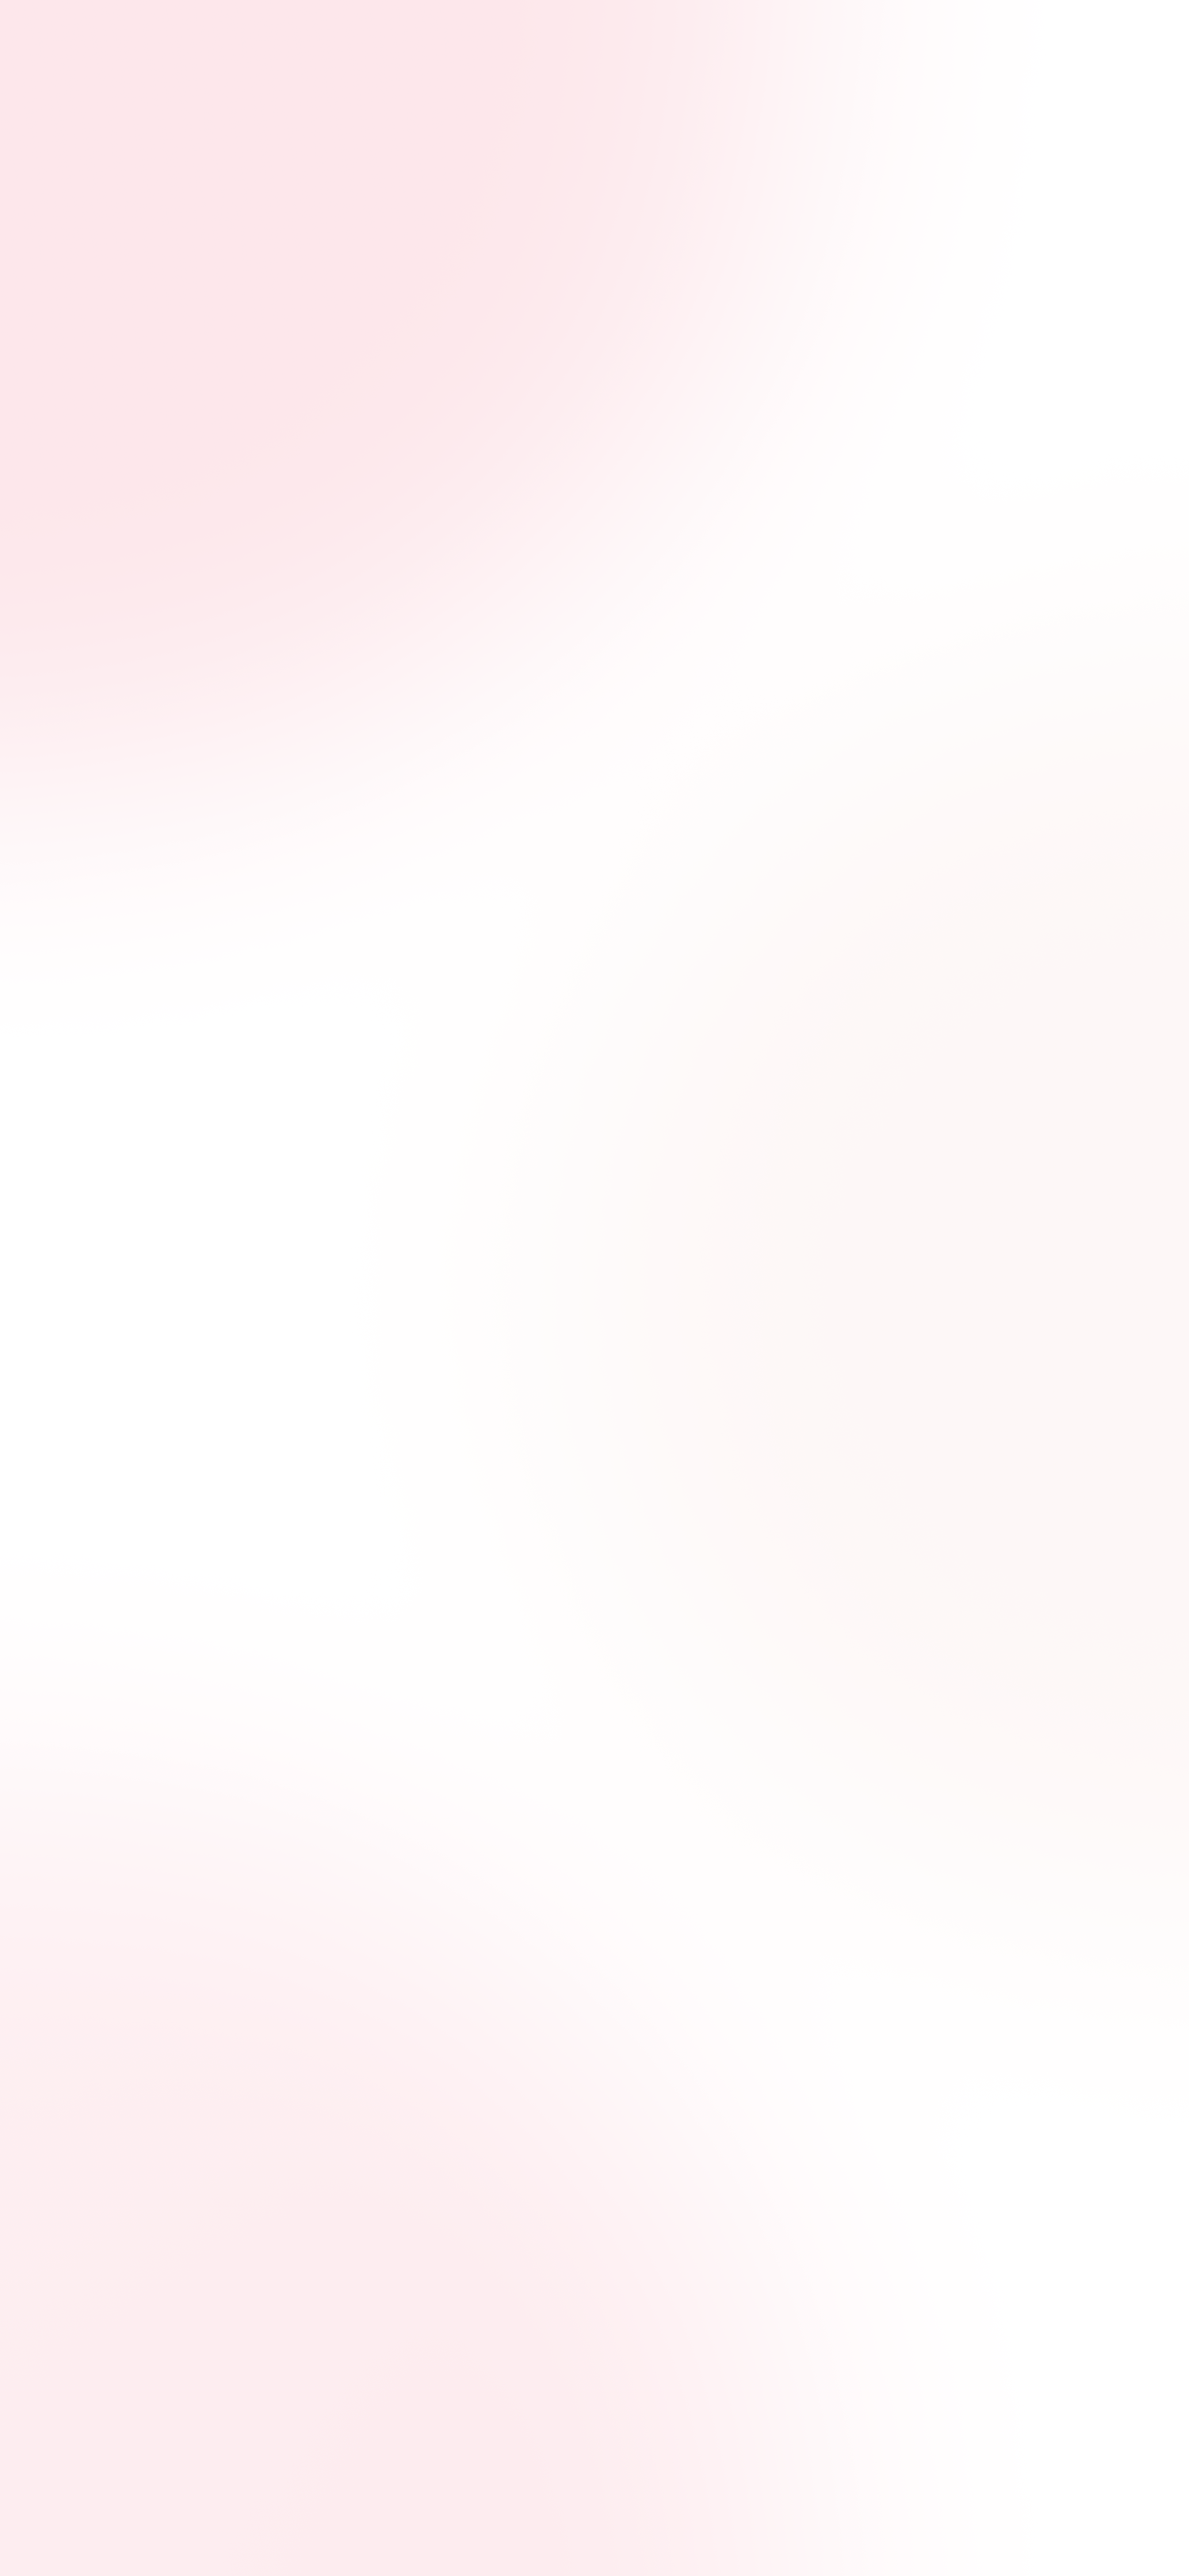
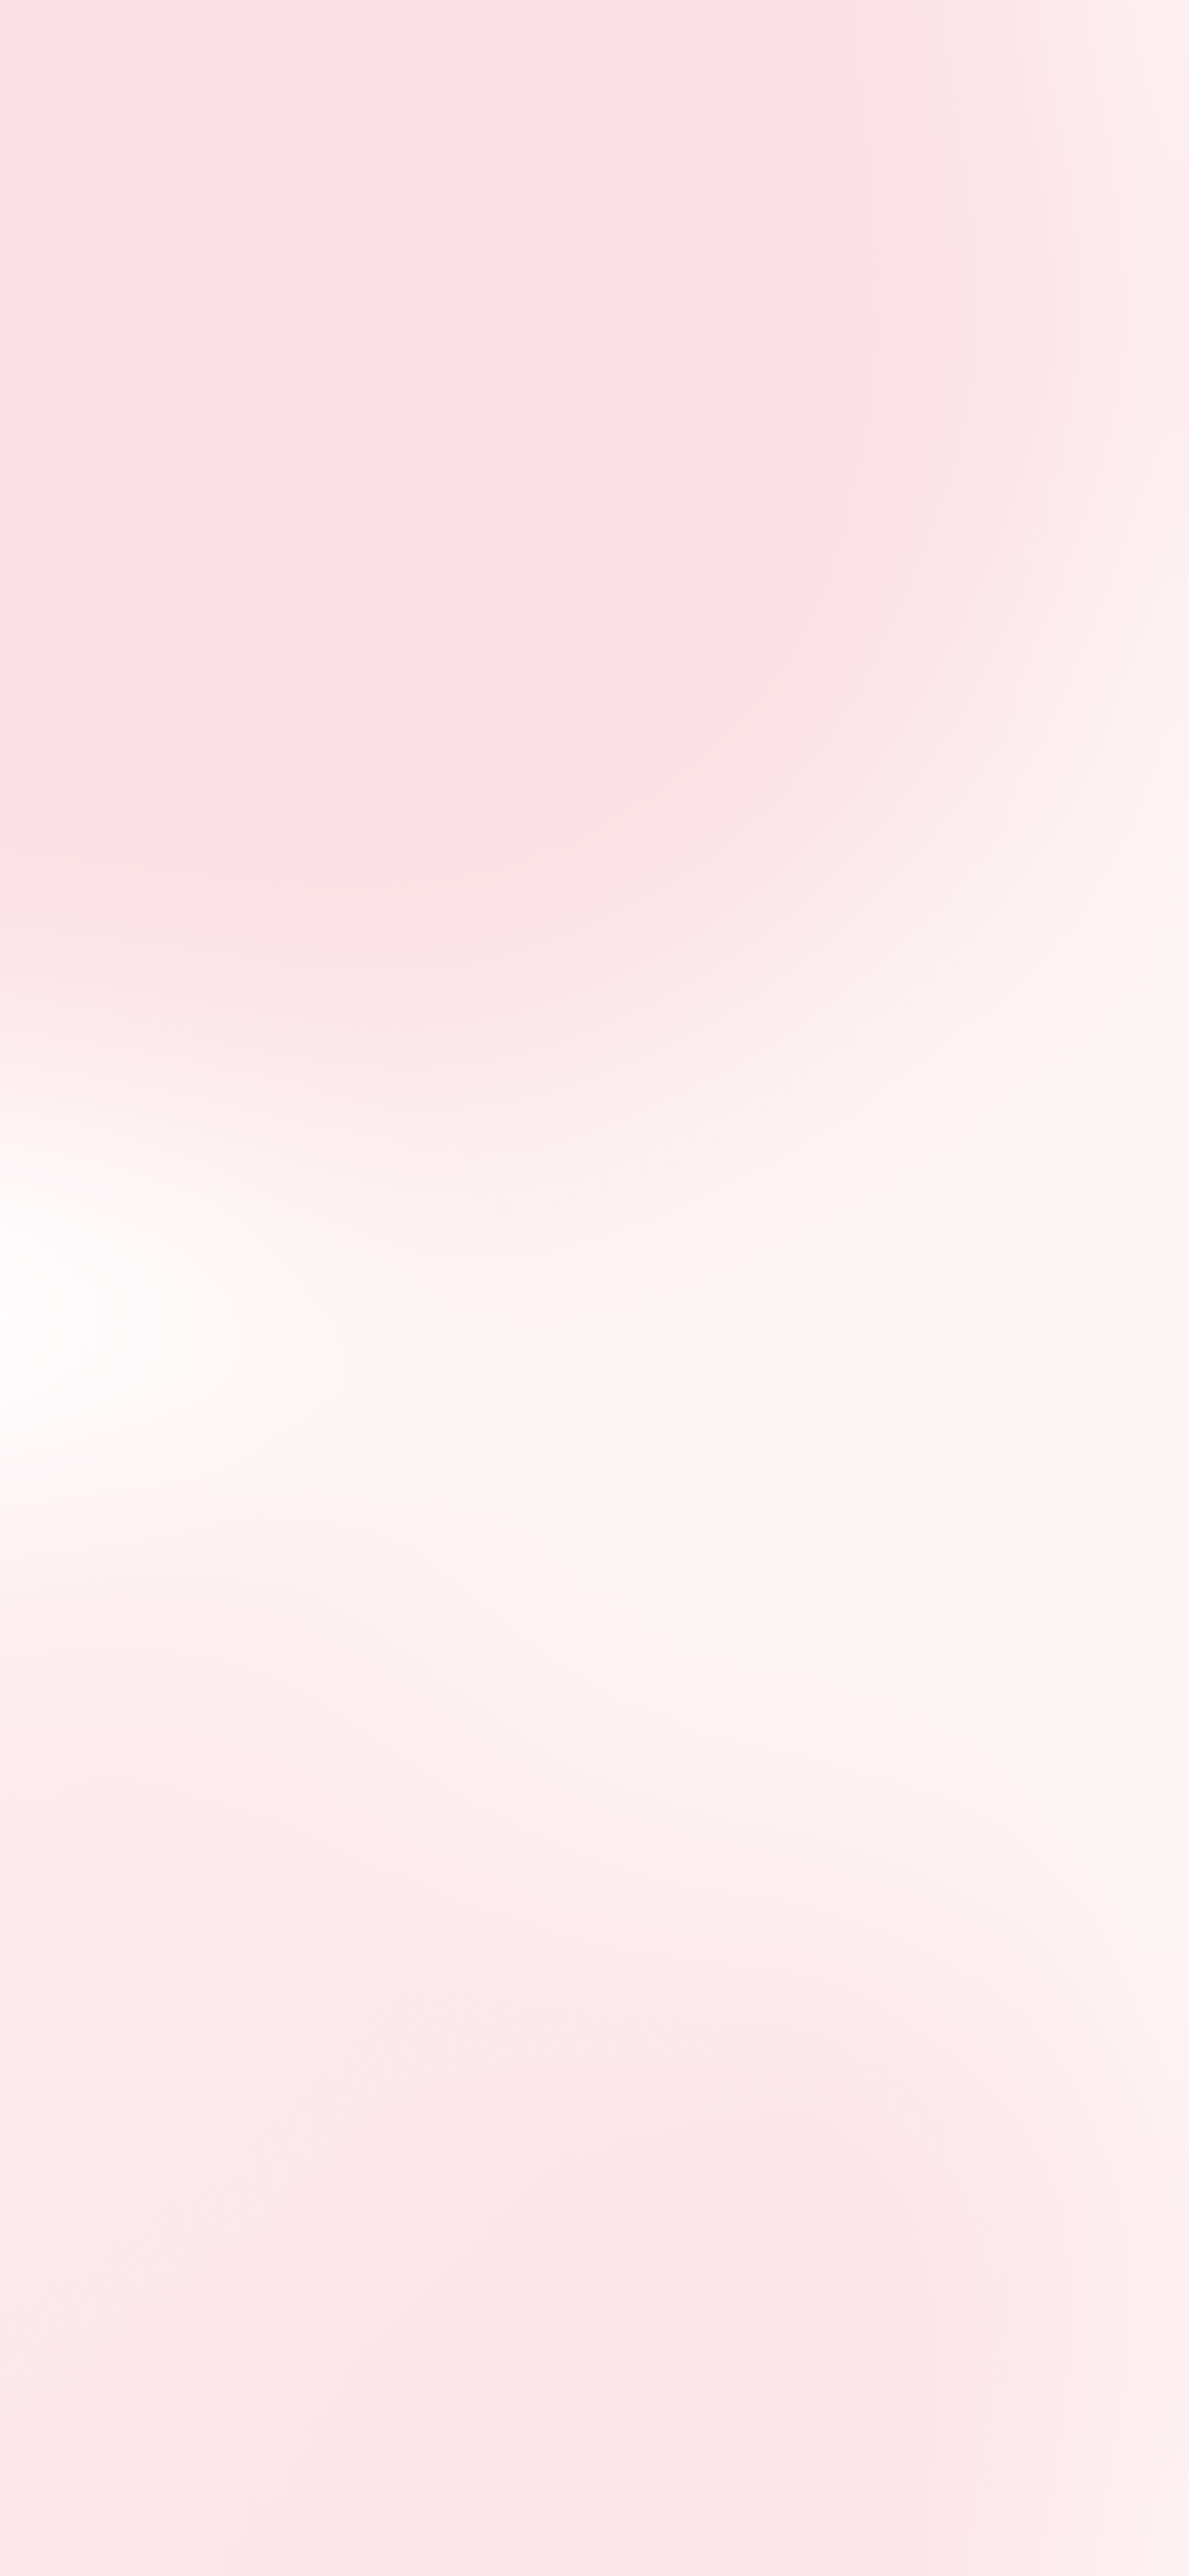
Update Style, 點數核銷流程背景

Changed region(s): [[0.0307, 0.0, 0.8893, 0.4042]]

diff --git a/app/index.less b/app/index.less
@@ -36,23 +36,23 @@ body, h1, h2, h3, h4, h5, h6, p, select, input, textarea, button { font-family: 
             .title { width: calc(100% - 20px) !important; top: 10px; position: absolute; text-align: center;
                 span { padding: 0 10px; margin: 0; background: rgba(255, 255, 255, 0.1); backdrop-filter: blur(10px); }}}
         .tabs { margin: 10px 5px 5px; }
-        .news { width: calc(100% - 22px) !important; height: 120px; margin: 5px 10px !important; border: 1px solid @cBg; border-radius: 10px; backdrop-filter: blur(30px); background: linear-gradient(104.62deg, rgba(242, 241, 246, 0.8) 0%, rgba(242, 241, 246, 0.5) 100%);
+        .news { width: calc(100% - 22px) !important; height: 120px; margin: 5px 10px !important; border: 1px solid white; border-radius: 10px; backdrop-filter: blur(30px); background: linear-gradient(104.62deg, rgba(255, 255, 255, 0.8) 0%, rgba(255, 255, 255, 0.5) 100%);
             .title { padding-left: 5px; border-left: 1px solid @c3; color: @c3; }
             .img { min-width: 120px; min-height: 120px; margin: 0; }
                 img { border-radius: 0 10px 10px 0; }}
-        .advertise { width: calc(100% - 22px) !important; height: fit-content; padding: 5px 5px 5px 0; margin: 5px 10px !important; border: 1px solid @cBg; border-radius: 10px; backdrop-filter: blur(30px); background: linear-gradient(104.62deg, rgba(242, 241, 246, 0.8) 0%, rgba(242, 241, 246, 0.5) 100%);
-            .img { width: 30% !important; height: fit-content !important; margin: 0; }
-                img { border-radius: 5px; }}
         .discounts { width: 100vw; margin: 10px 0 10px -10px;
             > .scroll { overflow-x: auto;
                 &::-webkit-scrollbar { width: 0; height: 0; -webkit-appearance: none; }}
             > .title { margin: 0 0 5px 20px; padding-left: 5px; border-left: 1px solid @c4; }
-            .discount { margin-right: 10px; border: 1px solid @cBg; border-radius: 10px; backdrop-filter: blur(30px); background: linear-gradient(104.62deg, rgba(242, 241, 246, 0.8) 0%, rgba(242, 241, 246, 0.5) 100%); 
+            .discount { margin-right: 10px; border: 1px solid white; border-radius: 10px; backdrop-filter: blur(30px); background: linear-gradient(104.62deg, rgba(255, 255, 255, 0.8) 0%, rgba(255, 255, 255, 0.5) 100%);
                 &:first-child { margin-left: 20px; }
                 &:last-child { margin-right: 20px; }
                 > * > .title { color: @c3; }
                 .img { margin: 0;
-                    img { border-radius: 10px 10px 0 0; }}}}}
+                    img { border-radius: 10px 10px 0 0; }}}}
+        .advertise { width: calc(100% - 22px) !important; height: fit-content; padding: 5px 5px 5px 0; margin: 5px 10px !important; border: 1px solid white; border-radius: 10px; backdrop-filter: blur(30px); background: linear-gradient(104.62deg, rgba(255, 255, 255, 0.8) 0%, rgba(255, 255, 255, 0.5) 100%);
+            .img { width: 30% !important; height: fit-content !important; margin: 0; }
+                img { border-radius: 5px; }}}
     .scan {
         &.main { width: 100vw; height: calc(100vh - 60px); padding: 60px 0 0 !important;
             @media @sD, @sT { width: 768px !important; }
@@ -82,20 +82,20 @@ body, h1, h2, h3, h4, h5, h6, p, select, input, textarea, button { font-family: 
                 @media @sD, @sT { width: 728px !important; }
                 img { border-radius: 10px; }
                 .cover { border-radius: 10px; background: rgba(0, 0, 0, 0.5); position: absolute; }}}
-        .point { width: calc(100% - 20px); padding: 10px; margin: 20px 0; border: 1px solid #EF6079; border-radius: 20px; backdrop-filter: blur(30px); background: radial-gradient(99.68% 422.68% at 0.32% 100.12%, rgba(239, 96, 121, 0.5) 0%, rgba(242, 241, 246, 0.5) 50.65%, rgba(242, 241, 246, 0.8) 100%);
+        .point { width: calc(100% - 20px); padding: 10px; margin: 20px 0; border: 1px solid #EF6079; border-radius: 20px; backdrop-filter: blur(30px); background: radial-gradient(99.68% 422.68% at 0.32% 100.12%, rgba(239, 96, 121, 0.5) 0%, rgba(255, 255, 255, 0.5) 50.65%, rgba(255, 255, 255, 0.8) 100%);
             .img { width: 50px; height: fit-content; }}
         .ticket {
             .img { width: 45px; height: fit-content; margin-right: 10px; }
             .lineV { height: 50px; background-color: @c2; }}
-        .function { width: calc(100% - 2px); margin: 20px 0; border: 1px solid #F2F1F6; backdrop-filter: blur(30px); background: linear-gradient(104.62deg, rgba(242, 241, 246, 0.8) 0%, rgba(242, 241, 246, 0.5) 100%);
+        .function { width: calc(100% - 2px); margin: 20px 0; border: 1px solid white; backdrop-filter: blur(30px); background: linear-gradient(104.62deg, rgba(255, 255, 255, 0.8) 0%, rgba(255, 255, 255, 0.5) 100%);
             > .flexH { padding: 5px 0; }
             .img { width: 24px; height: fit-content; }
             .lineV { height: 20px; background-color: @cG4; }}
         .menu {
             .img { width: 24px; height: fit-content; margin-right: 10px; }}}
-    &.point_send, &.point_success { background: linear-gradient(135deg, rgba(239, 96, 121, 0.5) 0%, #EF6079 100%), #FFFFFF;
-        .header { padding: 10px; background: none !important; }
-        .main { min-height: calc(100vh - 100px); margin: 0 20px 20px; border-radius: 20px; background-color: white;
+    .point_send, .point_success {
+        &.header { padding: 10px; background: none !important; }
+        &.main { min-height: calc(100vh - 100px); margin: 0 20px 20px; border-radius: 20px; background-color: white;
             .record {
                 .img { width: 20px; height: fit-content; }
                 .lineV { height: 30px; }}
@@ -105,7 +105,7 @@ body, h1, h2, h3, h4, h5, h6, p, select, input, textarea, button { font-family: 
                     .img { width: 20px; height: fit-content; }}}
             .number a { height: 60px; }
             .button { width: calc(100% - 30px); margin-top: 40px; }}}
-    &.point_success {
+    .point_success {
         .title { margin-top: auto; }
         .info { margin: auto; }
         .record { margin-top: auto; }

diff --git a/app/index.css b/app/index.css
@@ -70,10 +70,10 @@ button {
   width: calc(100% - 22px) !important;
   height: 120px;
   margin: 5px 10px !important;
-  border: 1px solid #F2F1F6;
+  border: 1px solid white;
   border-radius: 10px;
   backdrop-filter: blur(30px);
-  background: linear-gradient(104.62deg, rgba(242, 241, 246, 0.8) 0%, rgba(242, 241, 246, 0.5) 100%);
+  background: linear-gradient(104.62deg, rgba(255, 255, 255, 0.8) 0%, rgba(255, 255, 255, 0.5) 100%);
 }
 .body .index .news .title {
   padding-left: 5px;
@@ -87,24 +87,6 @@ button {
 }
 .body .index .news img {
   border-radius: 0 10px 10px 0;
-}
-.body .index .advertise {
-  width: calc(100% - 22px) !important;
-  height: fit-content;
-  padding: 5px 5px 5px 0;
-  margin: 5px 10px !important;
-  border: 1px solid #F2F1F6;
-  border-radius: 10px;
-  backdrop-filter: blur(30px);
-  background: linear-gradient(104.62deg, rgba(242, 241, 246, 0.8) 0%, rgba(242, 241, 246, 0.5) 100%);
-}
-.body .index .advertise .img {
-  width: 30% !important;
-  height: fit-content !important;
-  margin: 0;
-}
-.body .index .advertise img {
-  border-radius: 5px;
 }
 .body .index .discounts {
   width: 100vw;
@@ -125,10 +107,10 @@ button {
 }
 .body .index .discounts .discount {
   margin-right: 10px;
-  border: 1px solid #F2F1F6;
+  border: 1px solid white;
   border-radius: 10px;
   backdrop-filter: blur(30px);
-  background: linear-gradient(104.62deg, rgba(242, 241, 246, 0.8) 0%, rgba(242, 241, 246, 0.5) 100%);
+  background: linear-gradient(104.62deg, rgba(255, 255, 255, 0.8) 0%, rgba(255, 255, 255, 0.5) 100%);
 }
 .body .index .discounts .discount:first-child {
   margin-left: 20px;
@@ -144,6 +126,24 @@ button {
 }
 .body .index .discounts .discount .img img {
   border-radius: 10px 10px 0 0;
+}
+.body .index .advertise {
+  width: calc(100% - 22px) !important;
+  height: fit-content;
+  padding: 5px 5px 5px 0;
+  margin: 5px 10px !important;
+  border: 1px solid white;
+  border-radius: 10px;
+  backdrop-filter: blur(30px);
+  background: linear-gradient(104.62deg, rgba(255, 255, 255, 0.8) 0%, rgba(255, 255, 255, 0.5) 100%);
+}
+.body .index .advertise .img {
+  width: 30% !important;
+  height: fit-content !important;
+  margin: 0;
+}
+.body .index .advertise img {
+  border-radius: 5px;
 }
 .body .scan.main {
   width: 100vw;
@@ -283,7 +283,7 @@ button {
   border: 1px solid #EF6079;
   border-radius: 20px;
   backdrop-filter: blur(30px);
-  background: radial-gradient(99.68% 422.68% at 0.32% 100.12%, rgba(239, 96, 121, 0.5) 0%, rgba(242, 241, 246, 0.5) 50.65%, rgba(242, 241, 246, 0.8) 100%);
+  background: radial-gradient(99.68% 422.68% at 0.32% 100.12%, rgba(239, 96, 121, 0.5) 0%, rgba(255, 255, 255, 0.5) 50.65%, rgba(255, 255, 255, 0.8) 100%);
 }
 .body .profile .point .img {
   width: 50px;
@@ -301,9 +301,9 @@ button {
 .body .profile .function {
   width: calc(100% - 2px);
   margin: 20px 0;
-  border: 1px solid #F2F1F6;
+  border: 1px solid white;
   backdrop-filter: blur(30px);
-  background: linear-gradient(104.62deg, rgba(242, 241, 246, 0.8) 0%, rgba(242, 241, 246, 0.5) 100%);
+  background: linear-gradient(104.62deg, rgba(255, 255, 255, 0.8) 0%, rgba(255, 255, 255, 0.5) 100%);
 }
 .body .profile .function > .flexH {
   padding: 5px 0;
@@ -321,69 +321,65 @@ button {
   height: fit-content;
   margin-right: 10px;
 }
-.body.point_send,
-.body.point_success {
-  background: linear-gradient(135deg, rgba(239, 96, 121, 0.5) 0%, #EF6079 100%), #FFFFFF;
-}
-.body.point_send .header,
-.body.point_success .header {
+.body .point_send.header,
+.body .point_success.header {
   padding: 10px;
   background: none !important;
 }
-.body.point_send .main,
-.body.point_success .main {
+.body .point_send.main,
+.body .point_success.main {
   min-height: calc(100vh - 100px);
   margin: 0 20px 20px;
   border-radius: 20px;
   background-color: white;
 }
-.body.point_send .main .record .img,
-.body.point_success .main .record .img {
+.body .point_send.main .record .img,
+.body .point_success.main .record .img {
   width: 20px;
   height: fit-content;
 }
-.body.point_send .main .record .lineV,
-.body.point_success .main .record .lineV {
+.body .point_send.main .record .lineV,
+.body .point_success.main .record .lineV {
   height: 30px;
 }
-.body.point_send .main .info,
-.body.point_success .main .info {
+.body .point_send.main .info,
+.body .point_success.main .info {
   margin: 40px 0;
 }
-.body.point_send .main .info .total .img,
-.body.point_success .main .info .total .img {
+.body .point_send.main .info .total .img,
+.body .point_success.main .info .total .img {
   width: 30px;
   height: fit-content;
 }
-.body.point_send .main .info .hint,
-.body.point_success .main .info .hint {
+.body .point_send.main .info .hint,
+.body .point_success.main .info .hint {
   width: calc(100% - 20px);
   margin: 0 10px;
 }
-.body.point_send .main .info .hint .img,
-.body.point_success .main .info .hint .img {
+.body .point_send.main .info .hint .img,
+.body .point_success.main .info .hint .img {
   width: 20px;
   height: fit-content;
 }
-.body.point_send .main .number a,
-.body.point_success .main .number a {
+.body .point_send.main .number a,
+.body .point_success.main .number a {
   height: 60px;
 }
-.body.point_send .main .button,
-.body.point_success .main .button {
+.body .point_send.main .button,
+.body .point_success.main .button {
   width: calc(100% - 30px);
   margin-top: 40px;
 }
-.body.point_success .title {
+.body .point_success .title {
   margin-top: auto;
 }
-.body.point_success .info {
+.body .point_success .info {
   margin: auto;
 }
-.body.point_success .record {
+.body .point_success .record {
   margin-top: auto;
 }
-.body.point_success .background {
+.body .point_success .background {
   background-color: transparent !important;
 }
 .body .primary {

diff --git a/app/point_success.html b/app/point_success.html
@@ -15,11 +15,11 @@
         <link href="fontawesome-free-6.1.1-web/css/all.css" rel="stylesheet">
     </head>
     <body class="marginX">
-        <div class="body mobile point_success"> <!-- class: fixed, mobile -->
+        <div class="body mobile"> <!-- class: fixed, mobile -->
             <!-- Loading Spinner -->
             <!-- <div class="spinner"><div><div></div></div></div> -->
             <!-- Header -->
-            <section class="header">
+            <section class="header point_success">
                 <div class="icon iconButton"></div>
                 <span class="fL">點數消費</span>
                 <a class="icon iconButton black" href="index.html">
@@ -27,7 +27,7 @@
                 </a>
             </section>
             <!-- Main -->
-            <section class="main">
+            <section class="main point_success">
                 <div class="title flexV width center">
                     <div class="icon success"><i class="fa-regular fa-circle-check fa-4x"></i></div>
                     <span class="fXL success">支付完成</span>

diff --git a/app/point_send.html b/app/point_send.html
@@ -15,11 +15,11 @@
         <link href="fontawesome-free-6.1.1-web/css/all.css" rel="stylesheet">
     </head>
     <body class="marginX">
-        <div class="body mobile point_send"> <!-- class: fixed, mobile -->
+        <div class="body mobile"> <!-- class: fixed, mobile -->
             <!-- Loading Spinner -->
             <!-- <div class="spinner"><div><div></div></div></div> -->
             <!-- Header -->
-            <section class="header">
+            <section class="header point_send">
                 <a class="icon iconButton black" href="javascript:history.back()">
                     <i class="fa-solid fa-chevron-left fa-lg"></i>
                 </a>
@@ -27,7 +27,7 @@
                 <div class="icon iconButton"></div>
             </section>
             <!-- Main -->
-            <section class="main">
+            <section class="main point_send">
                 <div class="record flexH width">
                     <div class="flexV width center">
                         <span class="fS gray">紅利桃子</span>
